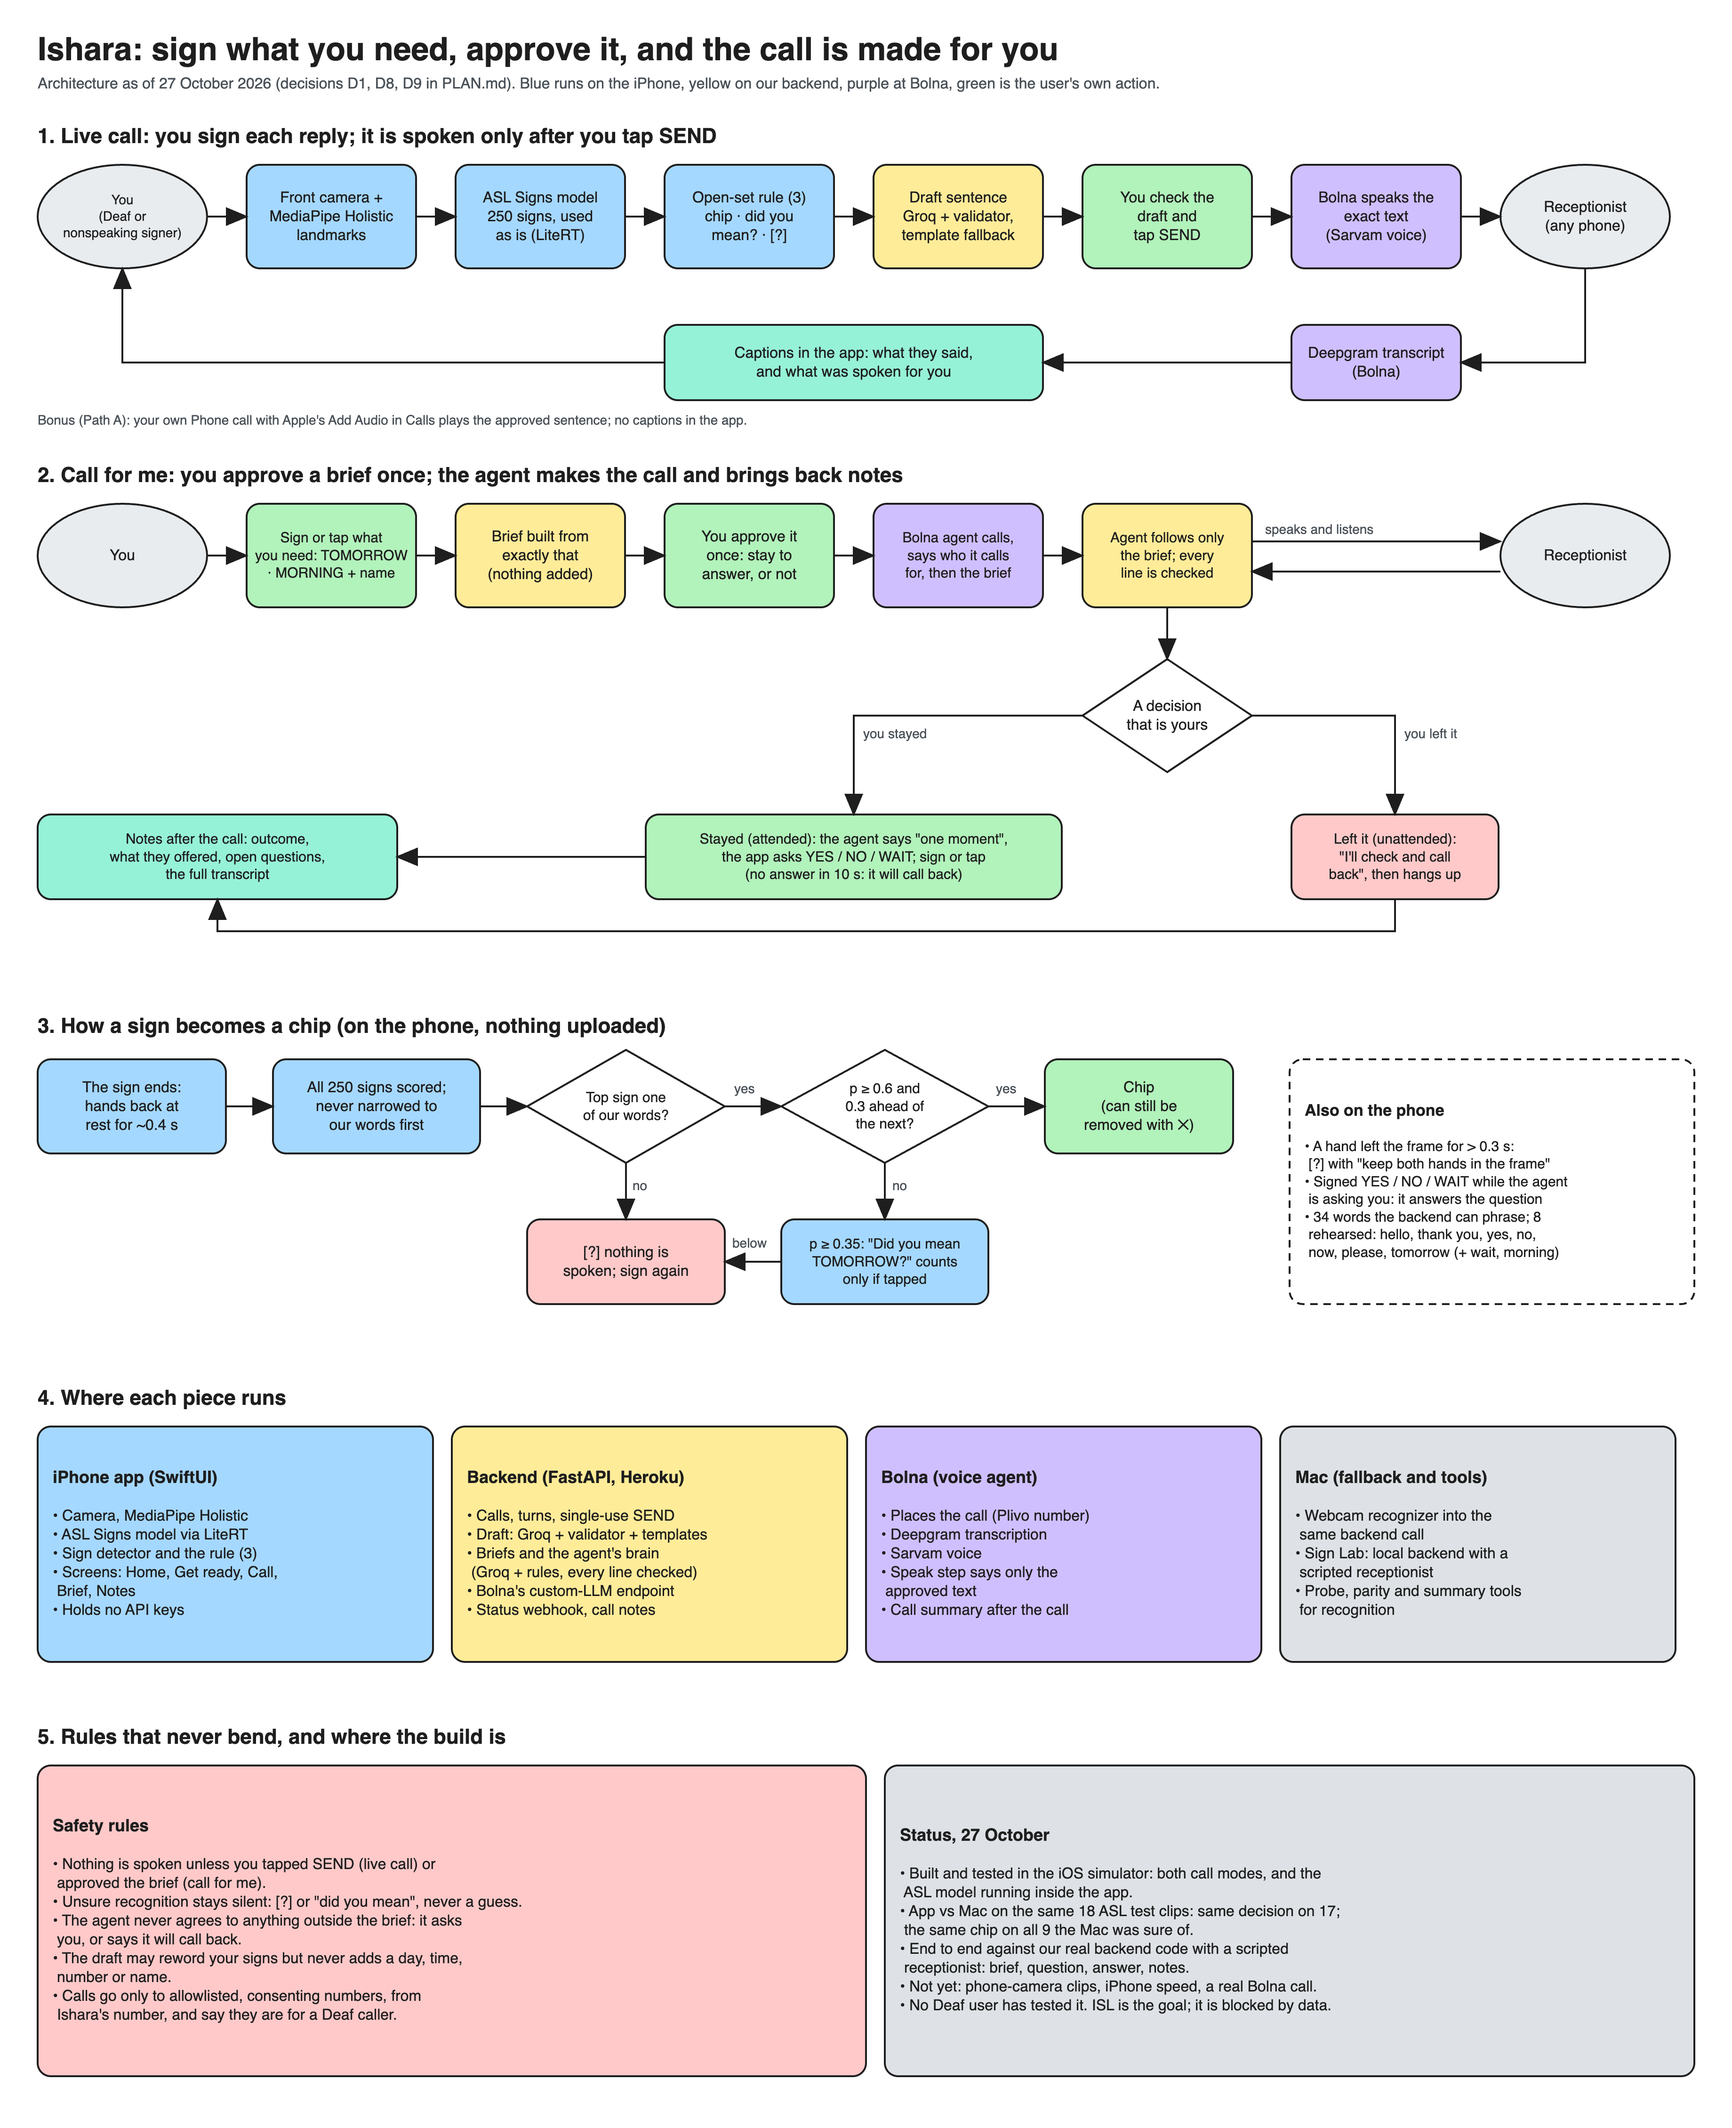
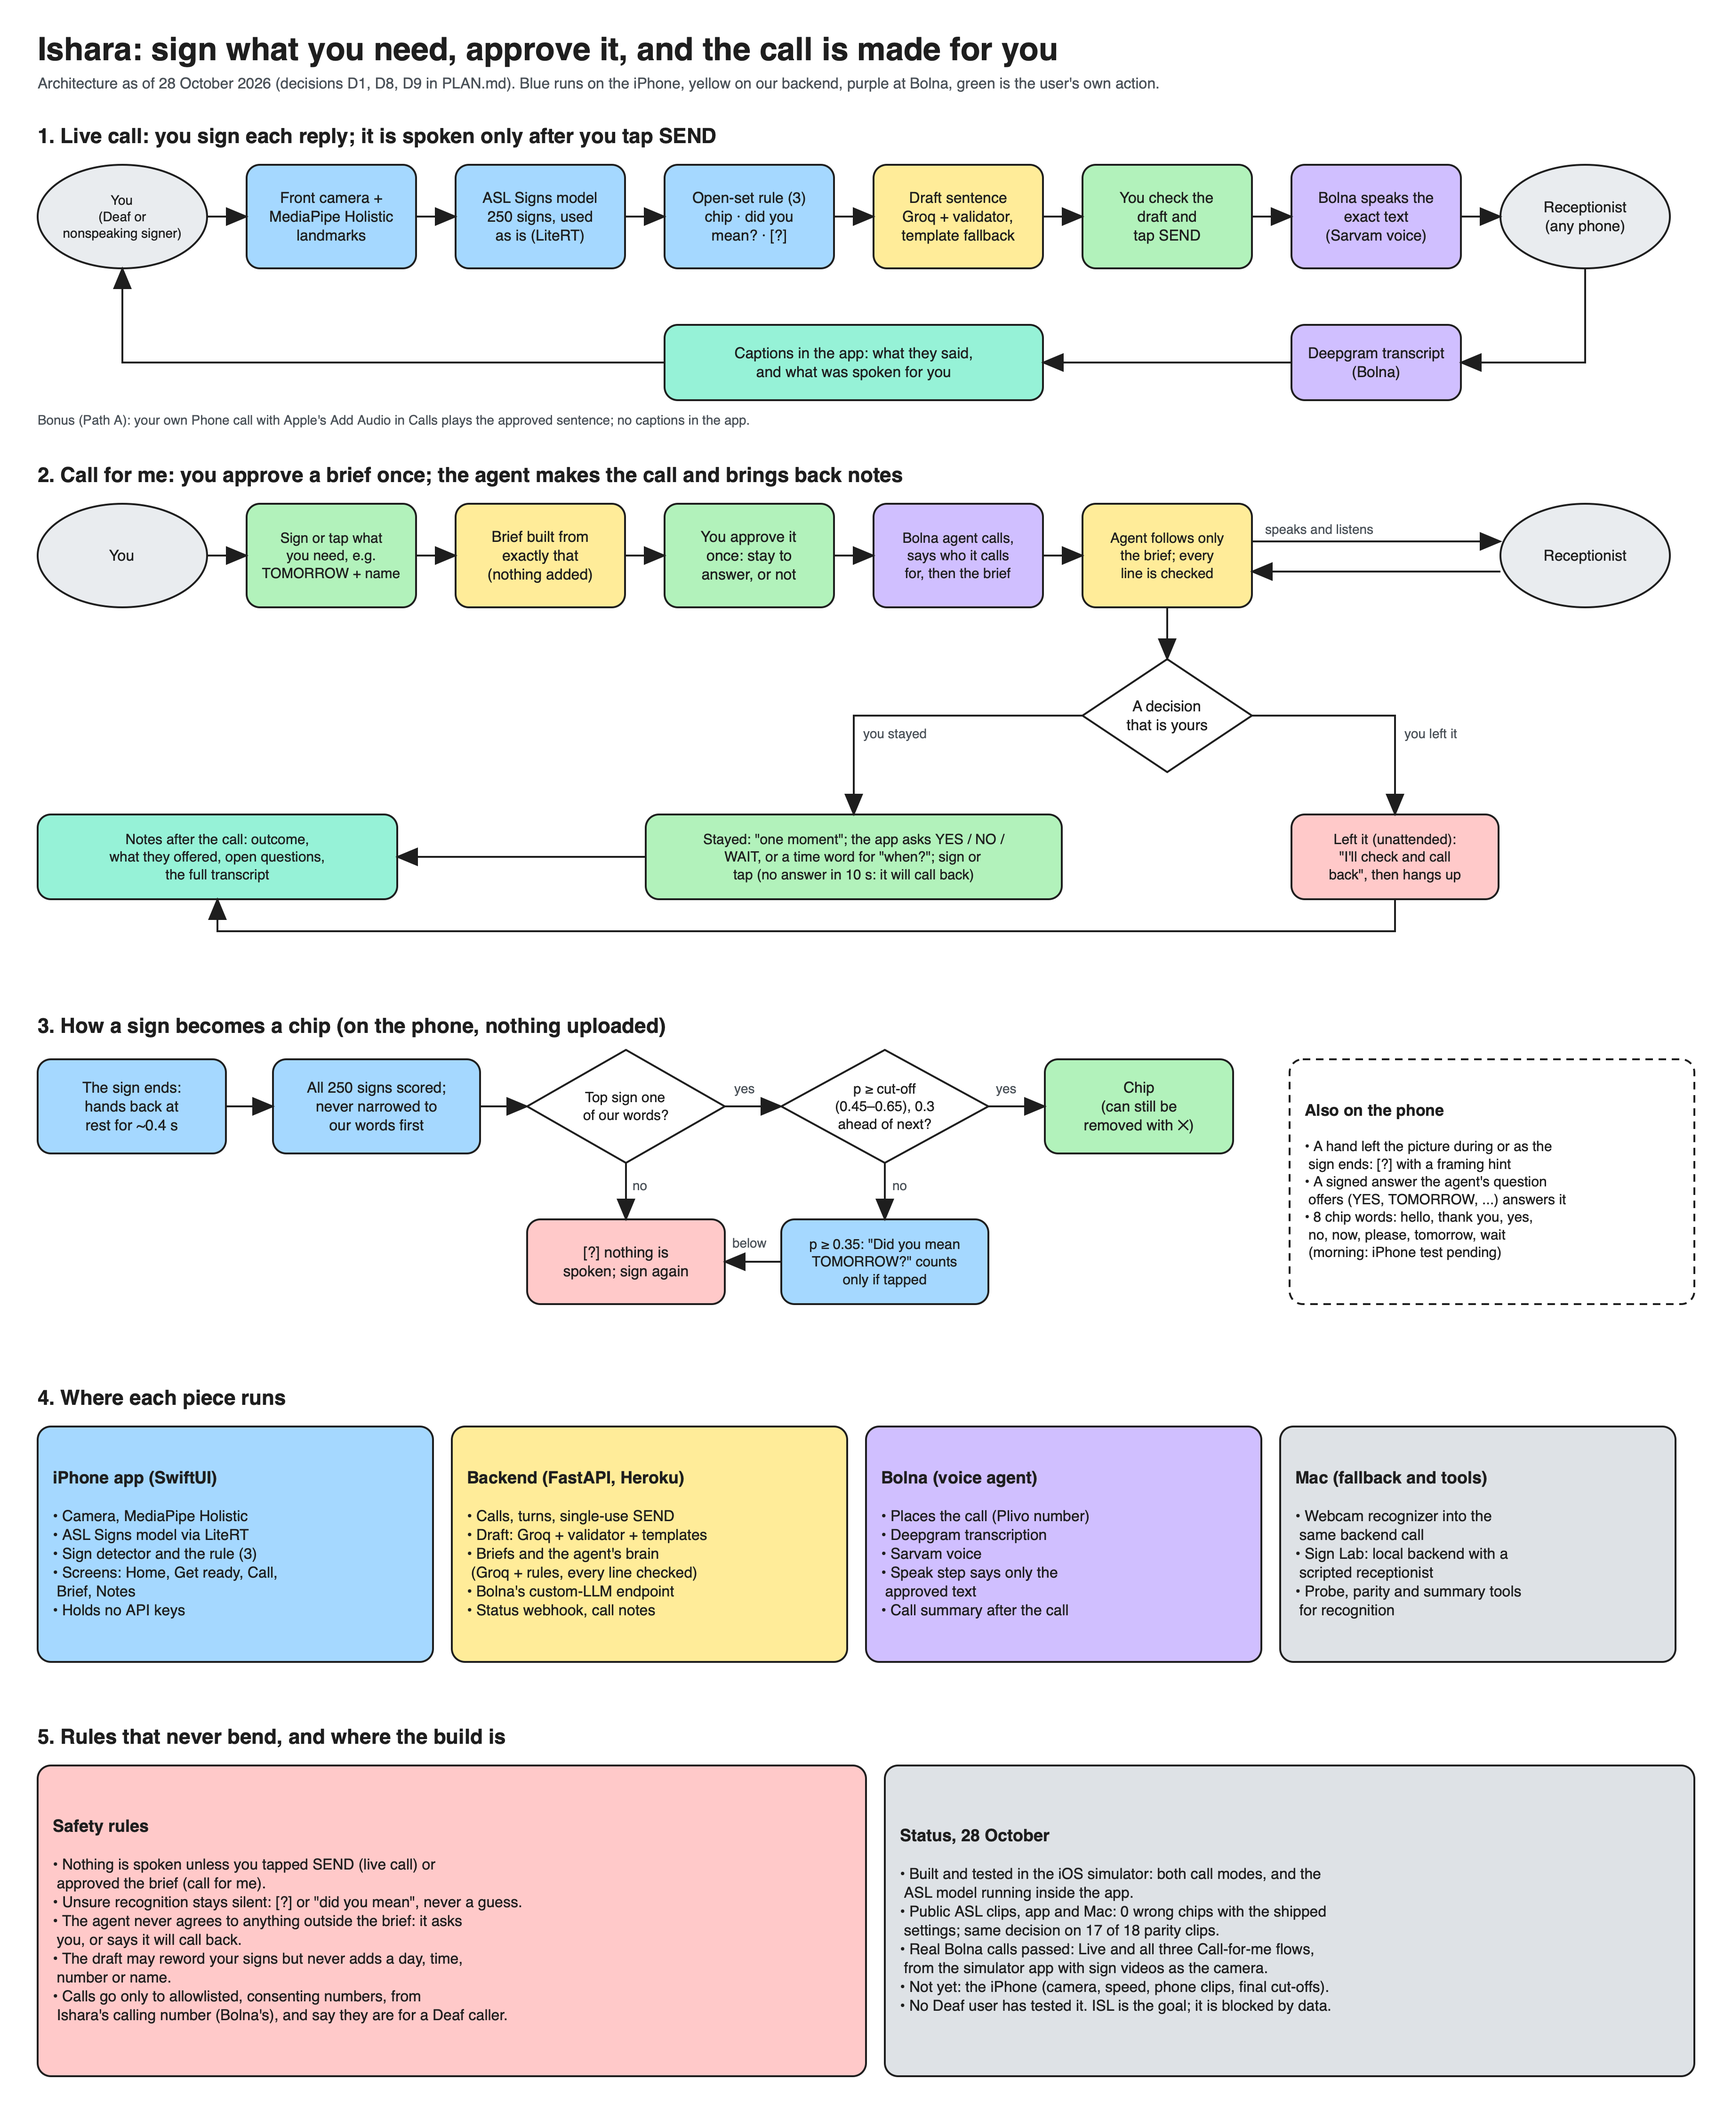
docs(architecture): board status and sign rule as of 28 Oct

diff --git a/docs/architecture/board.py b/docs/architecture/board.py
@@ -6,6 +6,10 @@ one description below, so the two never drift. Render the PNG from the SVG:
       --force-device-scale-factor=2 --window-size=1840,2260 --default-background-color=ffffffff \
       --screenshot=docs/architecture/ishara-board.png docs/architecture/ishara-board.svg
 
+Without Chrome, macOS Quick Look works too: it renders a square thumbnail, so pad the SVG to a
+2260 x 2260 viewBox (`viewBox="-210 0 2260 2260"`, white background), run
+`qlmanage -t -s 4520 -o /tmp <padded.svg>`, then `sips -c 4520 3680` the result (centre crop).
+
 Edit the content here, not in Excalidraw, or the next run overwrites the edits.
 """
 from __future__ import annotations
@@ -106,7 +110,7 @@ class Board:
 def build() -> Board:
     b = Board()
     b.text("title", 40, 30, "Ishara: sign what you need, approve it, and the call is made for you", size=34, bold=True)
-    b.text("subtitle", 40, 78, "Architecture as of 27 October 2026 (decisions D1, D8, D9 in PLAN.md). "
+    b.text("subtitle", 40, 78, "Architecture as of 28 October 2026 (decisions D1, D8, D9 in PLAN.md). "
            "Blue runs on the iPhone, yellow on our backend, purple at Bolna, green is the user's own action.",
            size=16, color=MUTED)
 
@@ -137,7 +141,7 @@ def build() -> Board:
            size=22, bold=True)
     y2 = 535
     you2 = b.box("d-you", xs[0], y2, w, h, "You", "person", kind="ellipse")
-    ask = b.box("d-req", xs[1], y2, w, h, "Sign or tap what\nyou need: TOMORROW\n· MORNING + name", "you", size=15)
+    ask = b.box("d-req", xs[1], y2, w, h, "Sign or tap what\nyou need, e.g.\nTOMORROW + name", "you", size=15)
     brief = b.box("d-brief", xs[2], y2, w, h, "Brief built from\nexactly that\n(nothing added)", "backend")
     ok = b.box("d-ok", xs[3], y2, w, h, "You approve it\nonce: stay to\nanswer, or not", "you")
     calls = b.box("d-call", xs[4], y2, w, h, "Bolna agent calls,\nsays who it calls\nfor, then the brief", "bolna", size=15)
@@ -151,7 +155,7 @@ def build() -> Board:
     decide = b.box("d-dec", xs[5], y2 + 165, w, 120, "A decision\nthat is yours", "none", kind="diamond")
     b.link("d-a5", brain, decide, side="y")
     att = b.box("d-att", xs[3] - 20, y2 + 330, w * 2 + gap + 40, 90,
-                "Stayed (attended): the agent says \"one moment\",\nthe app asks YES / NO / WAIT; sign or tap\n(no answer in 10 s: it will call back)", "you", size=15)
+                "Stayed: \"one moment\"; the app asks YES / NO /\nWAIT, or a time word for \"when?\"; sign or\ntap (no answer in 10 s: it will call back)", "you", size=15)
     un = b.box("d-un", xs[6], y2 + 330, w + 40, 90, "Left it (unattended):\n\"I'll check and call\nback\", then hangs up", "stop", size=15)
     b.arrow("d-a6", (decide.x, decide.y + 60), (att.x + att.w / 2, decide.y + 60), (att.x + att.w / 2, att.y))
     b.arrow("d-a7", (decide.x + decide.w, decide.y + 60), (un.x + un.w / 2, decide.y + 60), (un.x + un.w / 2, un.y))
@@ -170,7 +174,7 @@ def build() -> Board:
     ends = b.box("r-end", 40, y3b, 200, 100, "The sign ends:\nhands back at\nrest for ~0.4 s")
     soft = b.box("r-soft", 290, y3b, 220, 100, "All 250 signs scored;\nnever narrowed to\nour words first")
     inv = b.box("r-inv", 560, y3b - 10, 210, 120, "Top sign one\nof our words?", "none", kind="diamond", size=15)
-    conf = b.box("r-conf", 830, y3b - 10, 220, 120, "p ≥ 0.6 and\n0.3 ahead of\nthe next?", "none", kind="diamond", size=15)
+    conf = b.box("r-conf", 830, y3b - 10, 220, 120, "p ≥ cut-off\n(0.45–0.65), 0.3\nahead of next?", "none", kind="diamond", size=15)
     chip = b.box("r-chip", 1110, y3b, 200, 100, "Chip\n(can still be\nremoved with ✕)", "you")
     maybe = b.box("r-maybe", 830, y3b + 170, 220, 90, "p ≥ 0.35: \"Did you mean\nTOMORROW?\" counts\nonly if tapped", "phone", size=15)
     unsure = b.box("r-unsure", 560, y3b + 170, 210, 90, "[?] nothing is\nspoken; sign again", "stop")
@@ -187,9 +191,9 @@ def build() -> Board:
     b.text("r-l4", 948, y3b + 125, "no", size=14, color=MUTED)
     b.text("r-l5", 778, y3b + 186, "below", size=14, color=MUTED)
     b.box("r-side", 1370, y3b, 430, 260,
-          "Also on the phone\n\n• A hand left the frame for > 0.3 s:\n   [?] with \"keep both hands in the frame\"\n"
-          "• Signed YES / NO / WAIT while the agent\n   is asking you: it answers the question\n"
-          "• 34 words the backend can phrase; 8\n   rehearsed: hello, thank you, yes, no,\n   now, please, tomorrow (+ wait, morning)",
+          "Also on the phone\n\n• A hand left the picture during or as the\n   sign ends: [?] with a framing hint\n"
+          "• A signed answer the agent's question\n   offers (YES, TOMORROW, ...) answers it\n"
+          "• 8 chip words: hello, thank you, yes,\n   no, now, please, tomorrow, wait\n   (morning: iPhone test pending)",
           "none", size=15, align="left", dashed=True)
 
     # ---- 4. Where each piece runs ----
@@ -221,13 +225,13 @@ def build() -> Board:
           "• Unsure recognition stays silent: [?] or \"did you mean\", never a guess.\n"
           "• The agent never agrees to anything outside the brief: it asks\n   you, or says it will call back.\n"
           "• The draft may reword your signs but never adds a day, time,\n   number or name.\n"
-          "• Calls go only to allowlisted, consenting numbers, from\n   Ishara's number, and say they are for a Deaf caller.",
+          "• Calls go only to allowlisted, consenting numbers, from\n   Ishara's calling number (Bolna's), and say they are for a Deaf caller.",
           "stop", size=16, align="left")
     b.box("status", 940, y5 + 45, 860, 330,
-          "Status, 27 October\n\n• Built and tested in the iOS simulator: both call modes, and the\n   ASL model running inside the app.\n"
-          "• App vs Mac on the same 18 ASL test clips: same decision on 17;\n   the same chip on all 9 the Mac was sure of.\n"
-          "• End to end against our real backend code with a scripted\n   receptionist: brief, question, answer, notes.\n"
-          "• Not yet: phone-camera clips, iPhone speed, a real Bolna call.\n"
+          "Status, 28 October\n\n• Built and tested in the iOS simulator: both call modes, and the\n   ASL model running inside the app.\n"
+          "• Public ASL clips, app and Mac: 0 wrong chips with the shipped\n   settings; same decision on 17 of 18 parity clips.\n"
+          "• Real Bolna calls passed: Live and all three Call-for-me flows,\n   from the simulator app with sign videos as the camera.\n"
+          "• Not yet: the iPhone (camera, speed, phone clips, final cut-offs).\n"
           "• No Deaf user has tested it. ISL is the goal; it is blocked by data.",
           "mac", size=16, align="left")
     return b

diff --git a/docs/architecture/README.md b/docs/architecture/README.md
@@ -2,7 +2,7 @@
 
 ![Architecture board](ishara-board.png)
 
-The board as of 27 October 2026, after decisions D8 (pure ASL with a published model, used as
+The board as of 28 October 2026 (status after the first real calls), after decisions D8 (pure ASL with a published model, used as
 is) and D9 (the "Call for me" mode). Five parts, top to bottom:
 
 | Part | What it shows |
@@ -19,7 +19,7 @@ is) and D9 (the "Call for me" mode). Five parts, top to bottom:
 |---|---|
 | `board.py` | The board's content and layout; writes the `.excalidraw` and `.svg` files. **Edit this**, not the drawing |
 | `ishara-board.excalidraw` | Editable copy for [excalidraw.com](https://excalidraw.com) (menu → Open) or the VS Code extension |
-| `ishara-board.svg`, `ishara-board.png` | The rendered board; the PNG is the SVG rendered by headless Chrome (command in `board.py`) |
+| `ishara-board.svg`, `ishara-board.png` | The rendered board; the PNG is the SVG rendered at 2× (commands in `board.py`) |
 
 [PLAN.md](../../PLAN.md) wins if the board and the plan disagree; update both together.
 The 23 October board (personalised ISL with SignCLIP, the day-by-day build lanes and the app
